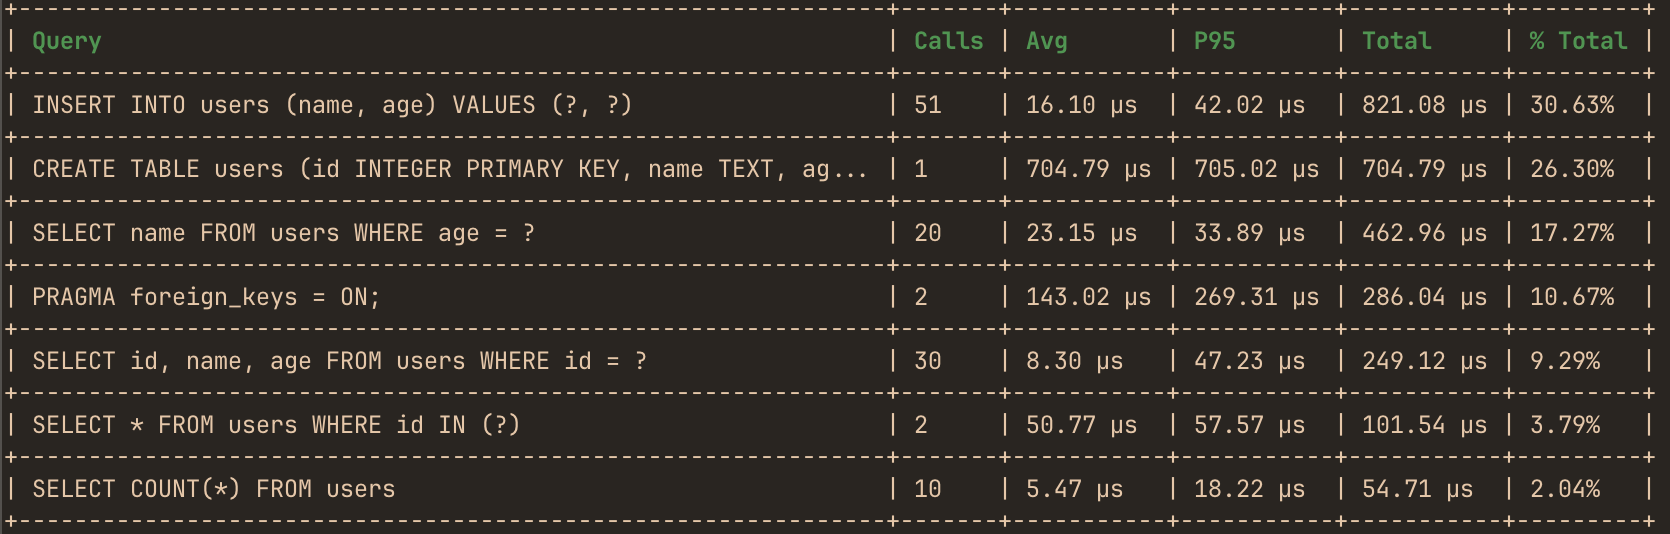
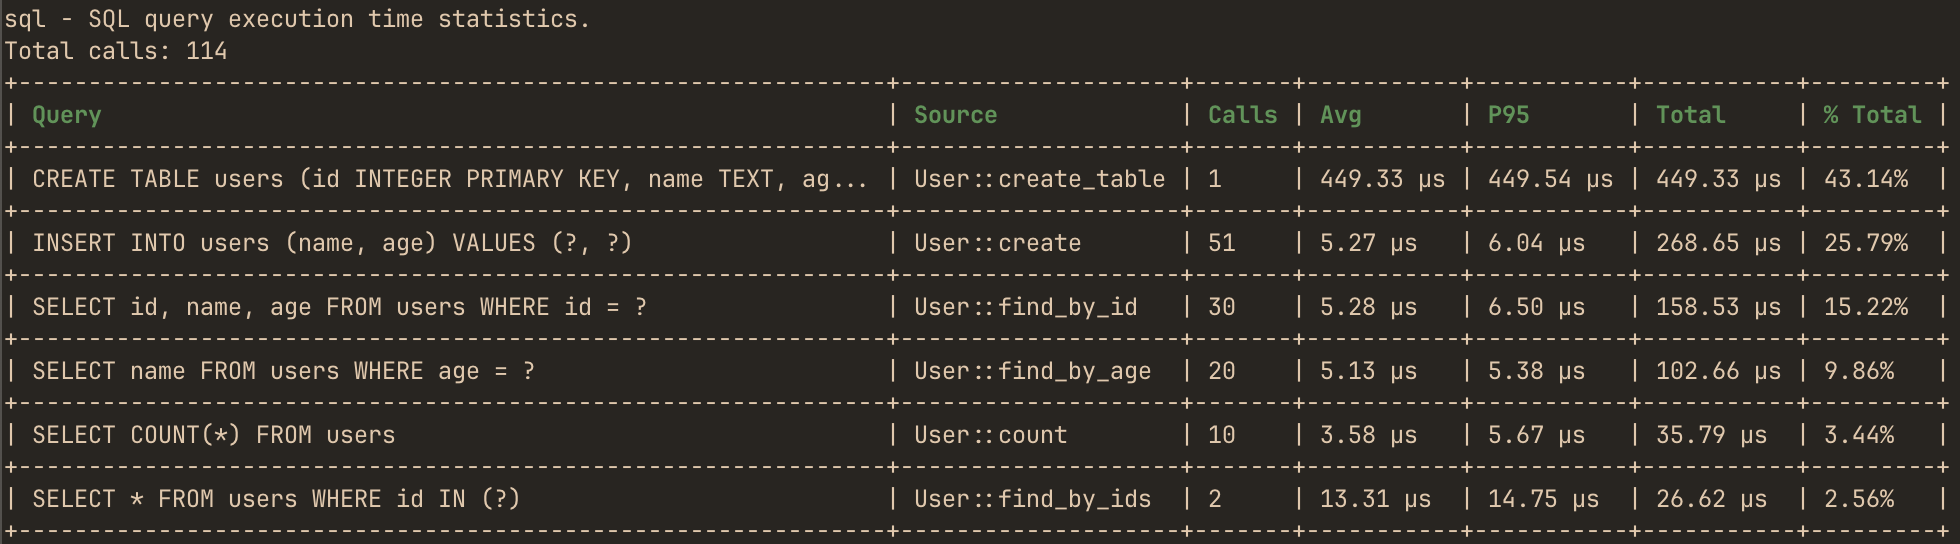
Update docs

diff --git a/crates/test-reqwest-013/examples/basic.rs b/crates/test-reqwest-013/examples/basic.rs
@@ -2,6 +2,8 @@
 //! creation. Every request sent through the returned client is timed and
 //! bucketed by normalized endpoint (`GET 127.0.0.1:{port}/users/{id}`), with
 //! transport errors and 4xx/5xx responses counted in the `Errors` column.
+//! Each request originates from an instrumented `Data` method, so the report's
+//! `Source` column attributes it to that method.
 //!
 //! Run with:
 //!   cargo run -p test-reqwest-013 --example basic --features hotpath
@@ -26,6 +28,75 @@ fn start_server() -> u16 {
     port
 }
 
+struct Data {
+    client: hotpath::wrap::reqwest::Client,
+    ext_client: hotpath::wrap::reqwest::Client,
+    port: u16,
+}
+
+#[hotpath::measure_all]
+impl Data {
+    fn new(port: u16) -> Self {
+        // The annotation pins the wrap alias: ClientWithMiddleware with `hotpath`
+        // enabled, raw reqwest::Client otherwise - same written type either way.
+        let client: hotpath::wrap::reqwest::Client = hotpath::http!(reqwest::Client::new());
+
+        // Labeled client: keys are prefixed, so its requests land in their own bucket.
+        let ext_client: hotpath::wrap::reqwest::Client =
+            hotpath::http!(reqwest::Client::new(), label = "ext");
+
+        Self {
+            client,
+            ext_client,
+            port,
+        }
+    }
+
+    async fn fetch_user(&self, id: u32) -> Result<(), Box<dyn std::error::Error>> {
+        let resp = self
+            .client
+            .get(format!(
+                "http://127.0.0.1:{}/users/{id}?verbose=true",
+                self.port
+            ))
+            .send()
+            .await?;
+        assert_eq!(resp.status().as_u16(), 200);
+        Ok(())
+    }
+
+    async fn fetch_stats(&self) -> Result<(), Box<dyn std::error::Error>> {
+        // No /stats route on the server - the 404 counts as an error.
+        let resp = self
+            .client
+            .get(format!("http://127.0.0.1:{}/stats", self.port))
+            .send()
+            .await?;
+        assert_eq!(resp.status().as_u16(), 404);
+        Ok(())
+    }
+
+    async fn ping_replica(&self, replica_port: u16) {
+        // Connection refused (nothing listens on the dropped port) counts as an error.
+        let result = self
+            .client
+            .get(format!("http://127.0.0.1:{replica_port}/health"))
+            .send()
+            .await;
+        assert!(result.is_err());
+    }
+
+    async fn fetch_external_user(&self, id: u32) -> Result<(), Box<dyn std::error::Error>> {
+        let resp = self
+            .ext_client
+            .get(format!("http://127.0.0.1:{}/users/{id}", self.port))
+            .send()
+            .await?;
+        assert_eq!(resp.status().as_u16(), 200);
+        Ok(())
+    }
+}
+
 #[tokio::main]
 async fn main() -> Result<(), Box<dyn std::error::Error>> {
     let _guard = HotpathGuardBuilder::new("main")
@@ -33,46 +104,22 @@ async fn main() -> Result<(), Box<dyn std::error::Error>> {
         .build();
 
     let port = start_server();
-
-    // The annotation pins the wrap alias: ClientWithMiddleware with `hotpath`
-    // enabled, raw reqwest::Client otherwise - same written type either way.
-    let client: hotpath::wrap::reqwest::Client = hotpath::http!(reqwest::Client::new());
+    let data = Data::new(port);
 
     // Two ids, one bucket: GET 127.0.0.1:{port}/users/{id}.
     for id in 1..=2 {
-        let resp = client
-            .get(format!("http://127.0.0.1:{port}/users/{id}?verbose=true"))
-            .send()
-            .await?;
-        assert_eq!(resp.status().as_u16(), 200);
+        data.fetch_user(id).await?;
     }
 
-    // 404 counts as an error.
-    let resp = client
-        .get(format!("http://127.0.0.1:{port}/missing"))
-        .send()
-        .await?;
-    assert_eq!(resp.status().as_u16(), 404);
+    data.fetch_stats().await?;
 
-    // Connection refused (nothing listens on the dropped port) counts as an error.
-    let refused_port = {
+    let replica_port = {
         let listener = TcpListener::bind("127.0.0.1:0")?;
         listener.local_addr()?.port()
     };
-    let result = client
-        .get(format!("http://127.0.0.1:{refused_port}/unreachable"))
-        .send()
-        .await;
-    assert!(result.is_err());
+    data.ping_replica(replica_port).await;
 
-    // Labeled client: keys are prefixed, so this lands in its own bucket.
-    let labeled: hotpath::wrap::reqwest::Client =
-        hotpath::http!(reqwest::Client::new(), label = "ext");
-    let resp = labeled
-        .get(format!("http://127.0.0.1:{port}/users/3"))
-        .send()
-        .await?;
-    assert_eq!(resp.status().as_u16(), 200);
+    data.fetch_external_user(3).await?;
 
     println!("HTTP example completed");
     Ok(())

diff --git a/crates/test-diesel/examples/basic.rs b/crates/test-diesel/examples/basic.rs
@@ -10,6 +10,57 @@ use diesel::prelude::*;
 use diesel::sql_types::{Integer, Text};
 use hotpath::{HotpathGuardBuilder, Section};
 
+struct User;
+
+#[hotpath::measure_all]
+impl User {
+    fn create_table(conn: &mut SqliteConnection) -> QueryResult<usize> {
+        diesel::sql_query("CREATE TABLE users (id INTEGER PRIMARY KEY, name TEXT, age INTEGER)")
+            .execute(conn)
+    }
+
+    fn create(conn: &mut SqliteConnection, name: &str, age: i32) -> QueryResult<usize> {
+        diesel::sql_query("INSERT INTO users (name, age) VALUES (?, ?)")
+            .bind::<Text, _>(name)
+            .bind::<Integer, _>(age)
+            .execute(conn)
+    }
+
+    fn find_by_id(conn: &mut SqliteConnection, id: i32) -> QueryResult<usize> {
+        diesel::sql_query("SELECT id, name, age FROM users WHERE id = ?")
+            .bind::<Integer, _>(id)
+            .execute(conn)
+    }
+
+    fn find_by_age(conn: &mut SqliteConnection, age: i32) -> QueryResult<usize> {
+        // Inline literal on purpose - exercises normalization of varying literals.
+        diesel::sql_query(format!("SELECT name FROM users WHERE age = {age}")).execute(conn)
+    }
+
+    fn find_by_ids(conn: &mut SqliteConnection, ids: &[i32]) -> QueryResult<usize> {
+        let list = ids
+            .iter()
+            .map(|id| id.to_string())
+            .collect::<Vec<_>>()
+            .join(", ");
+        diesel::sql_query(format!("SELECT * FROM users WHERE id IN ({list})")).execute(conn)
+    }
+
+    fn count(conn: &mut SqliteConnection) -> QueryResult<usize> {
+        diesel::sql_query("SELECT COUNT(*) FROM users").execute(conn)
+    }
+
+    fn create_in_transaction(
+        conn: &mut SqliteConnection,
+        name: &str,
+        age: i32,
+    ) -> QueryResult<usize> {
+        // Transaction-internal query is captured; BEGIN/COMMIT are not (they arrive
+        // as dedicated transaction events we ignore, keeping the report queries-only).
+        conn.transaction(|conn| User::create(conn, name, age))
+    }
+}
+
 fn main() -> Result<(), Box<dyn std::error::Error>> {
     hotpath::instrument_diesel_sql();
 
@@ -20,48 +71,33 @@ fn main() -> Result<(), Box<dyn std::error::Error>> {
     // Established AFTER install so it picks up the default instrumentation.
     let mut conn = SqliteConnection::establish(":memory:")?;
 
-    diesel::sql_query("CREATE TABLE users (id INTEGER PRIMARY KEY, name TEXT, age INTEGER)")
-        .execute(&mut conn)?;
+    User::create_table(&mut conn)?;
 
     // 50 inserts, identical prepared text -> one bucket.
     for i in 0..50 {
-        diesel::sql_query("INSERT INTO users (name, age) VALUES (?, ?)")
-            .bind::<Text, _>(format!("user{i}"))
-            .bind::<Integer, _>(20 + i)
-            .execute(&mut conn)?;
+        User::create(&mut conn, &format!("user{i}"), 20 + i)?;
     }
 
     // 30 point lookups, bind params -> one bucket.
     for i in 1..=30 {
-        diesel::sql_query("SELECT id, name, age FROM users WHERE id = ?")
-            .bind::<Integer, _>(i)
-            .execute(&mut conn)?;
+        User::find_by_id(&mut conn, i)?;
     }
 
     // 20 selects with VARYING inline literals -> normalization merges them.
     for i in 1..=20 {
-        let q = format!("SELECT name FROM users WHERE age = {}", 20 + i);
-        diesel::sql_query(q).execute(&mut conn)?;
+        User::find_by_age(&mut conn, 20 + i)?;
     }
 
     // IN-lists of different arity -> both collapse to `IN (?)`.
-    diesel::sql_query("SELECT * FROM users WHERE id IN (1, 2, 3)").execute(&mut conn)?;
-    diesel::sql_query("SELECT * FROM users WHERE id IN (4, 5, 6, 7, 8)").execute(&mut conn)?;
+    User::find_by_ids(&mut conn, &[1, 2, 3])?;
+    User::find_by_ids(&mut conn, &[4, 5, 6, 7, 8])?;
 
     // 10 aggregates -> one bucket.
     for _ in 0..10 {
-        diesel::sql_query("SELECT COUNT(*) FROM users").execute(&mut conn)?;
+        User::count(&mut conn)?;
     }
 
-    // Transaction-internal query is captured; BEGIN/COMMIT are not (they arrive
-    // as dedicated transaction events we ignore, keeping the report queries-only).
-    conn.transaction::<_, diesel::result::Error, _>(|conn| {
-        diesel::sql_query("INSERT INTO users (name, age) VALUES (?, ?)")
-            .bind::<Text, _>("in_tx")
-            .bind::<Integer, _>(99)
-            .execute(conn)?;
-        Ok(())
-    })?;
+    User::create_in_transaction(&mut conn, "in_tx", 99)?;
 
     println!("Diesel instrumentation example completed!");
     Ok(())

diff --git a/docs/src/introduction.md b/docs/src/introduction.md
@@ -44,7 +44,7 @@ function hotpathInitAgent(agent) {
 
 [hotpath-rs](https://github.com/pawurb/hotpath-rs) is an easy-to-configure Rust performance profiling toolkit that shows exactly where your code spends time, burns CPU, and allocates memory. 
 
-It helps you distinguish between functions that are slow because they wait on I/O and those that are CPU-intensive. Instrument functions, channels, futures, streams, SQL queries, and byte-level I/O to find bottlenecks and focus optimizations where they matter most. Get actionable insights into time, memory, and async data flow with minimal setup.
+It helps you distinguish between functions that are slow because they wait on I/O and those that are CPU-intensive. Instrument functions, channels, futures, streams, SQL queries, HTTP calls, and byte-level I/O to find bottlenecks and focus optimizations where they matter most. Get actionable insights into time, memory, and async data flow with minimal setup.
 
 <div style="clear: both;"></div>
 
@@ -86,13 +86,13 @@ inspect throughput and latency of network, file or compression I/O streams:
 
 <img loading="lazy" src="{{#asset-hash images/io_metrics.png}}" alt="hotpath-rs I/O profiling report showing per-stream read counts, bytes, transfer rate, average and P95 latency">
 
+analyze SQL/HTTP calls performance with automatic source function attribution:
+
+<img loading="lazy" src="{{#asset-hash images/sql_metrics.png}}" alt="hotpath-rs SQL query profiling report showing per-query call counts, source function attribution, average and P95 execution time">
+
 monitor throughput, performance and max queue depth of instrumented channels:
 
 <img loading="lazy" src="{{#asset-hash images/channel_metrics.png}}" alt="hotpath-rs channel profiling report showing throughput, send-to-receive latency and max queue depth per channel">
-
-analyze SQL calls performance:
-
-<img loading="lazy" src="{{#asset-hash images/sql_metrics.png}}" alt="hotpath-rs SQL query profiling report showing per-query call counts, average and P95 execution time">
 
 or use the live TUI dashboard to monitor real-time performance and async data flow metrics with debug info:
 

diff --git a/docs/src/http_tracing.md b/docs/src/http_tracing.md
@@ -1,16 +1,8 @@
 # Rust HTTP Client Performance Profiling for reqwest
 
-`hotpath` profiles outgoing HTTP requests made with [reqwest](https://crates.io/crates/reqwest), helping you identify slow endpoints, frequent request patterns, and failing calls. Requests are grouped by normalized endpoint, so parameter-varied requests to the same route are reported together: 1,000 calls to `GET example.com/users/{id}` appear as a single entry with call count, error count, average latency, percentiles, and total execution time.
+<img loading="lazy" src="{{#asset-hash images/http-report.png}}" alt="hotpath-rs terminal HTTP report table showing normalized endpoints with source function attribution, call counts, errors, average, P95, total, and percent-of-total execution time">
 
-```bash
-http - HTTP request execution time statistics.
-+----------------------------+-------+--------+-----------+-----------+-----------+---------+
-| Endpoint                   | Calls | Errors | Avg       | P95       | Total     | % Total |
-+----------------------------+-------+--------+-----------+-----------+-----------+---------+
-| GET example.com/users/{id} | 120   | 0      | 781.35 µs | 1.21 ms   | 93.76 ms  | 88.59%  |
-| GET example.com/search     | 40    | 2      | 301.79 µs | 350.12 µs | 12.07 ms  | 11.41%  |
-+----------------------------+-------+--------+-----------+-----------+-----------+---------+
-```
+`hotpath` profiles outgoing HTTP requests made with [reqwest](https://crates.io/crates/reqwest), helping you identify slow endpoints, frequent request patterns, and failing calls. Requests are grouped by normalized endpoint, so parameter-varied requests to the same route are reported together: 1,000 calls to `GET example.com/users/{id}` appear as a single entry with call count, error count, average latency, percentiles, and total execution time.
 
 ## Wrapping the client
 

diff --git a/README.md b/README.md
@@ -3,7 +3,7 @@
 
 hotpath-rs is an easy-to-configure Rust performance profiler that shows exactly where your code spends time, burns CPU, and allocates memory. 
 
-It helps you distinguish between functions that are slow because they wait on I/O and those that are CPU-intensive. Instrument functions, channels, futures, streams, SQL queries, and byte-level I/O to find bottlenecks and focus optimizations where they matter most. Get actionable insights into time, memory, and async data flow with minimal setup.
+It helps you distinguish between functions that are slow because they wait on I/O and those that are CPU-intensive. Instrument functions, channels, futures, streams, SQL queries, HTTP calls, and byte-level I/O to find bottlenecks and focus optimizations where they matter most. Get actionable insights into time, memory, and async data flow with minimal setup.
 
 Try the TUI demo via SSH - no installation required:
 
@@ -27,13 +27,13 @@ inspect throughput and latency of network, file or compression I/O streams:
 
 ![hotpath-rs I/O profiling report showing per-stream read counts, bytes, transfer rate, average and P95 latency](media/io_metrics.png)
 
+analyze SQL/HTTP calls performance with automatic source function attribution:
+
+![hotpath-rs SQL query profiling report showing per-query call counts, source function attribution, average and P95 execution time](media/sql_metrics.png)
+
 monitor throughput, performance and max queue depth of instrumented channels:
 
 ![hotpath-rs channel profiling report showing throughput, send-to-receive latency and max queue depth per channel](media/channel_metrics.png)
-
-analyze SQL calls performance:
-
-![hotpath-rs SQL query profiling report showing per-query call counts, average and P95 execution time](media/sql_metrics.png)
 
 or use the live TUI dashboard to monitor real-time performance metrics with debug info:
 

diff --git a/docs/src/sql_tracing.md b/docs/src/sql_tracing.md
@@ -1,6 +1,6 @@
 # Rust SQL Performance Profiling for sqlx, Diesel and Toasty
 
-<img loading="lazy" src="{{#asset-hash images/sql-report.png}}" alt="hotpath-rs terminal SQL report table showing normalized queries with call counts, average, P95, total, and percent-of-total execution time">
+<img loading="lazy" src="{{#asset-hash images/sql-report.png}}" alt="hotpath-rs terminal SQL report table showing normalized queries with source function attribution, call counts, average, P95, total, and percent-of-total execution time">
 
 `hotpath` profiles SQL queries in Rust applications, helping you identify slow statements, repetitive query patterns, and unexpected database activity. Queries are grouped by their normalized SQL text, so parameterized executions of the same statement are reported together. For example, 1,000 executions of `SELECT * FROM users WHERE id = ?` appear as a single entry with call count, average latency, percentiles, and total execution time.
 
